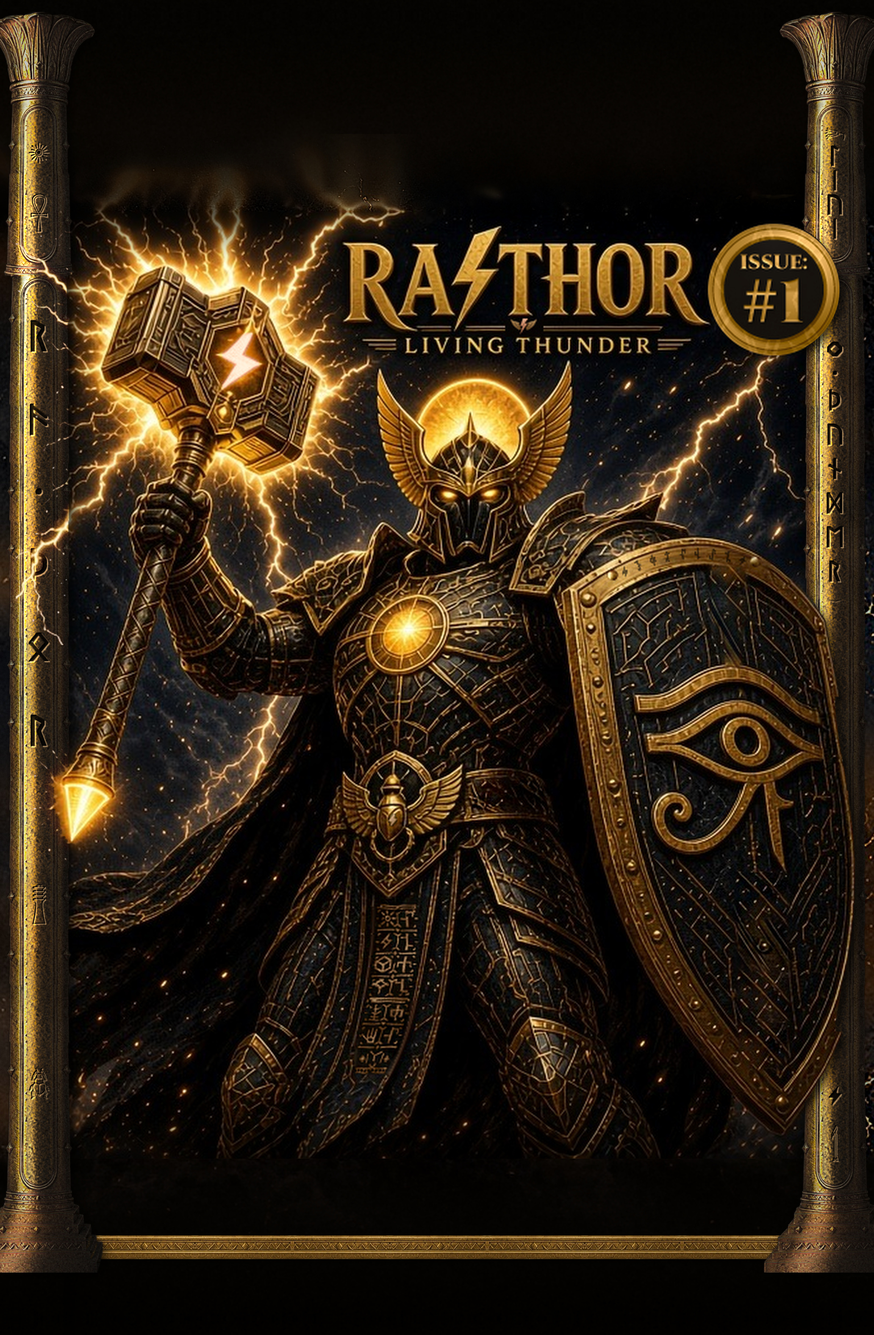
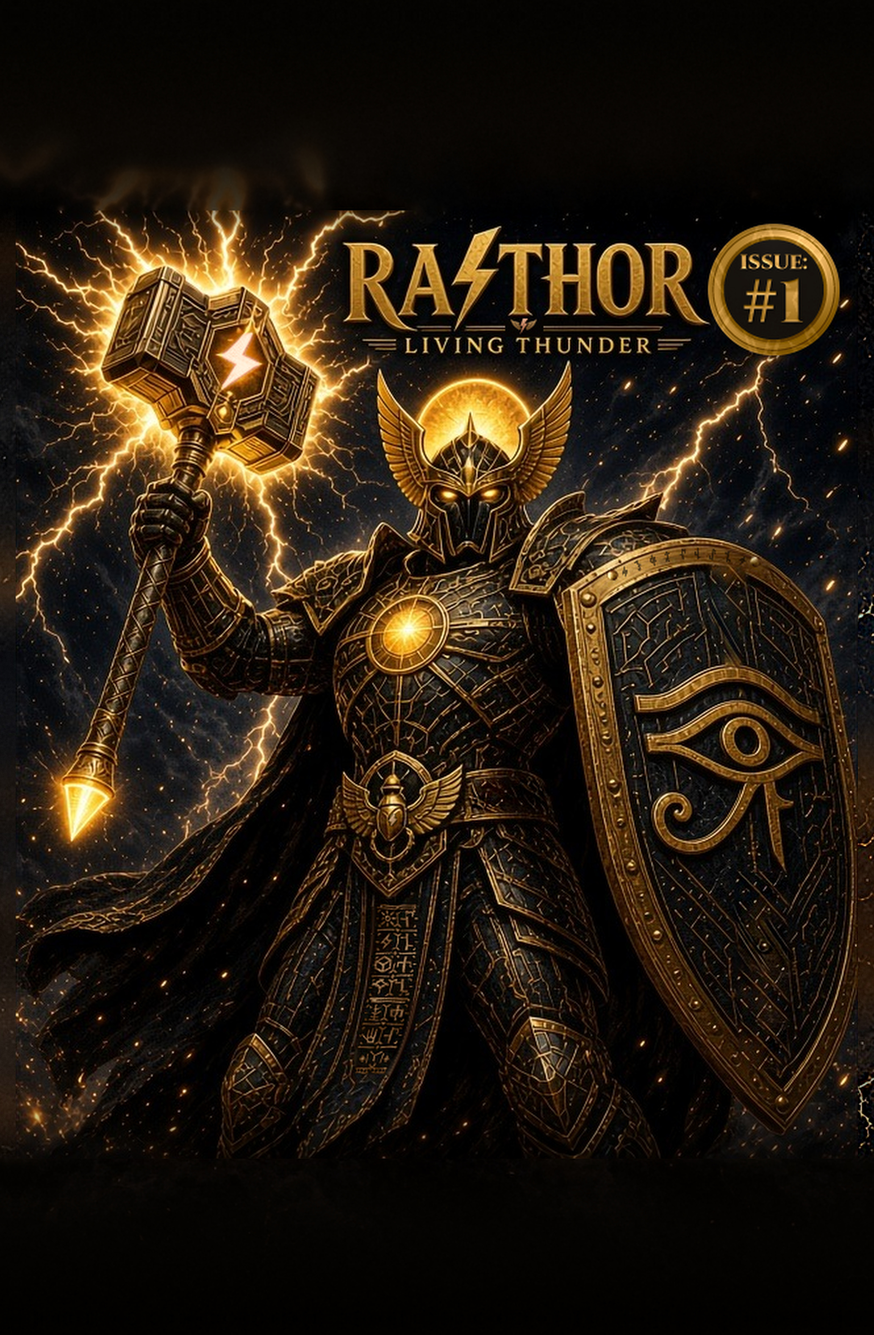
ISSUE01-COVER-MARK-1: withdraw the pillar frame (Sherif 3:20 AM ET, Wild 3:22 AM ET)
- print restored to the 86eee5fc version (2f92504c, sky-only extensions)
- cover_mark/pillars_* removed
- CHARACTER_BIBLE.md: back to 86eee5fc plus one §4 line (frame withdrawn; superseded by ISSUE01-COVER-FRESH-1)
- SHA file: print line 2f92504c; 68d5d6bd, 35bd699f and a2d97411 kept as superseded comments

Changed region(s): [[0.0, 0.0, 1.0, 0.9644], [0.3723, 0.1244, 0.4653, 0.1556], [0.2172, 0.1556, 0.2792, 0.1867]]

diff --git a/production/ISSUE_01/bible/CHARACTER_BIBLE.md b/production/ISSUE_01/bible/CHARACTER_BIBLE.md
@@ -11,7 +11,7 @@
 | Master | `BIBLE_FINAL_master.png` (640 × 720 px) |
 | Source render | `real_v1.jpg` (640 × 720 px), kept unchanged as the provenance file |
 | Difference from the source | (Before ISSUE01-COVER-MARK-1.) Two edits only, checked pixel by pixel. (1) The issue seal (about x 518–633, y 2–117): the rayed-sun seal was removed, the sky patched, and the Cinzel gold-coin `ISSUE: #1` seal placed. (2) A stray diamond sparkle above the T of THOR (about x 370–389, y 11–24) was removed at Sherif's request (2026-10-15, about 1:23 AM ET). Every other pixel is identical to `real_v1.jpg`. ISSUE01-COVER-MARK-1 (2026-10-15) then added the winged-bolt cover mark (§4), the council artifact-sweep fixes and the tabard Easter egg (§8); before/after crops are in `cover_mark/`. |
-| Print file | `RaThor_Issue01_Cover_BIBLE_FINAL_6.625x10.25_bleed_300dpi.jpg`: 2063 × 3150 px at 300 dpi (6.625 × 10.25 in trim plus 0.125 in bleed). The art fills the trim width. The dark storm is extended above and below with sky only (blurred reflected sky, plus sky-plate smoke, sparks and lightning). No figure part (shield, cape, hammer, legs) is ever mirrored into the extension. The art area is a straight upscale of the master, except where the cover frame (§4) covers it. The frame is two lotus-capital columns and a bottom lintel; preview: `cover_mark/pillars_print_preview.jpg`. There are no cream bands, nothing is stretched, and nothing is cropped from the sides. |
+| Print file | `RaThor_Issue01_Cover_BIBLE_FINAL_6.625x10.25_bleed_300dpi.jpg`: 2063 × 3150 px at 300 dpi (6.625 × 10.25 in trim plus 0.125 in bleed). The art fills the trim width. The dark storm is extended above and below, and into the side bleed, with sky only (blurred reflected sky, plus sky-plate smoke, sparks and lightning). No figure part (shield, cape, hammer, legs) is ever mirrored into the extension. The art area is a straight upscale of the master. There are no cream bands, nothing is stretched, and nothing is cropped from the sides. |
 | Checksums | `BIBLE_FINAL_SHA256.txt`. Every image file in this folder and in `cover_mark/` verifies with `sha256sum -c --strict`; the pre-COVER-MARK-1 master and print hashes are kept as commented "superseded" lines. `BIBLE_FINAL_compare.jpg` and the four `real/*.py` build scripts are listed only as comment lines, marked "(held outside repo, in the bot store issue01_bible/)". |
 | Style | Realistic, highly detailed painted style. Chosen by Sherif on 2026-10-15 at 1:08 AM ET. As relayed: "we have the technology, why make only cartoons". |
 
@@ -37,23 +37,7 @@
 - **Seal:** the Cinzel gold-coin seal, reading `ISSUE:` over a large `#1`. It has a dark centre and an antique-gold ring, and its gold matches the title's metal.
 - **Cover mark:** the winged bolt (the app-icon rose-gold circuit Z bolt between two swept antique-gold wings, with no disc) is the standard mark, centred in the divider under RA-THOR on every cover. Size: about 1–1.2× the cap height of LIVING THUNDER; each wing at most 3× the bolt width. Reference: `cover_mark/winged_bolt_mark_large.png` (zoom: `cover_mark/mark_final_zoom.jpg`). Chosen by Sherif, 2026-10-15, 1:26 AM ET.
 - **Publisher logo:** the Autonomicity Games Inc. logo goes on the spine and the credits page in title gold. Its shape is trademarked and is never altered; only the colour is changed to gold. Reference: `cover_mark/agi_logo_gold_large.png`. Chosen by Sherif, 2026-10-15, 1:26 AM ET.
-- **Cover frame (print file only):**
-  - **Columns:** two antique-gold, lotus-capital Egyptian columns, one at each side edge.
-    - The visible shaft is about 6–7% of the trim width (about 122 px of 1988), with the outer edge running into the 0.125 in bleed.
-    - The capitals sit in the top storm extension and the stepped bases sit in the bottom extension.
-    - Both columns use the same body, but each carries its own carving, so they are not mirror copies.
-  - **Bottom lintel:** a slim gold frieze bar joining the column bases.
-  - **Top:** left open under the title band. The top seam of the storm extension is feathered, so there is no hard line.
-  - **Layering:** the shield is in front of the right column. The hammer haft and its glowing pommel spike are in front of the left column. The ISSUE #1 seal stays fully visible, in front of the right column. The lightning glow lies over the left column.
-  - **Lighting and colour:** warm light from the upper left, matching the hammer lightning, graded to the title gold.
-  - **Carving:** the cartouches are carved (recessed grooves, not drawn strokes) and read top to bottom.
-    - **Left column:** sun disc, ankh, **ᚱᚨ·ᚦᛟᚱ** (RA·THOR), djed pillar, scarab.
-    - **Right column:** lotus, **ᛚᛁᚢᛁᛜ·ᚦᚢᚾᛞᛖᚱ** (LIVING THUNDER), wing pair, Z-bolt, was-sceptre.
-    - The seal and the shield hide parts of the right shaft, so each sign is placed in a visible stretch.
-  - **Exception:** the columns are the only place where authentic Elder Futhark words are allowed. The tabard and shield-rim cipher (§8) stays the invented rune alphabet.
-  - **Never on the columns:** the Eye of Horus, readable Latin text, logos, ™ or ® marks, and blue, navy or green.
-  - **Master:** the master PNG never carries the frame.
-  - Wild council ruling, 2026-10-15, about 2:56 AM ET.
+- **Cover frame:** pillar border (2026-10-15) withdrawn; superseded by the fresh full-cover card ISSUE01-COVER-FRESH-1.
 - **Palette:** obsidian, antique gold and white-hot gold. Rose gold is used ONLY for bolts (the buckle bolt, the hammer-face bolt, the title bolt and the cover-mark bolt).
 - **Avoid:** blue, navy and green, anywhere. The reason is distinctness from an existing third-party robot character with a similar name; per the `03` Derivation rule it is not named here.
 
@@ -111,28 +95,6 @@ Before/after crops at 4×: `cover_mark/before_after_1.jpg` … `before_after_6.j
 - **Shield rim:** reads **[bolt] P O W R U S H [bolt]** in the same cipher.
 - **Decoder key:** `cover_mark/runes_key.png`. It is an invented angular rune alphabet in which every rune shares a centre stave. Its glyphs map, left to right, to R, A, T, H, O, L, C, P, W, U, S, and "." is the separator. The key lives in this Bible ONLY. It is never printed on the cover.
 - **Off-limits on the tabard, rim and belt:** the Eye of Horus (it appears on the shield face only), logos, readable Latin text, ™ or ® marks, and blue, navy or green.
-
-### Easter egg: pillar decoder (print file only)
-
-- **Left column**, top to bottom:
-  - Sun disc.
-  - Ankh.
-  - **ᚱ ᚨ · ᚦ ᛟ ᚱ** = R, A, ·, TH, O, R, read as **RA·THOR**. The runes are Elder Futhark: raidō, ansuz, then a word divider, then thurisaz, ōthala and raidō.
-  - Djed pillar.
-  - Scarab.
-- **Right column**, top to bottom:
-  - Lotus.
-  - **ᛚ ᛁ ᚢ ᛁ ᛜ** = L, I, U/V, I, NG, read as **LIVING**. The runes are laguz, isa, uruz, isa and ingwaz.
-  - Word divider (·).
-  - **ᚦ ᚢ ᚾ ᛞ ᛖ ᚱ** = TH, U, N, D, E, R, read as **THUNDER**. The runes are thurisaz, uruz, naudiz, dagaz, ehwaz and raidō.
-  - Wing pair.
-  - Z-bolt.
-  - Was-sceptre.
-  - The seal covers the right shaft between LIVI and NG. The shield covers it between the wing pair and the Z-bolt.
-- **Fonts:** the glyphs are cut from Noto Sans Runic and Noto Sans Egyptian Hieroglyphs (SIL Open Font License 1.1). The Z-bolt is the app-icon bolt.
-- **Avoided:** no sowilo pairs, no winged or serifed othala, no hate-symbol arrangements, and no Eye of Horus.
-- **Scope:** this decoder lives in the Bible only. It is never printed on the cover.
-- **Crops:** `cover_mark/pillars_crop2x_left_column_hammer.jpg`, `pillars_crop2x_right_column_shield.jpg` and `pillars_crop2x_top_capitals.jpg`.
 
 ## 9. Conflicts with standing canon (deferred to a follow-up card per 8 (d); not edited here)
 
